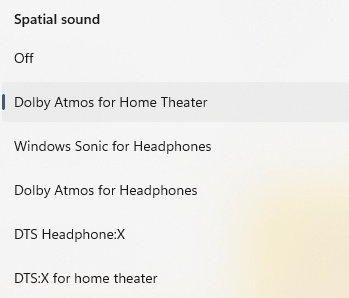
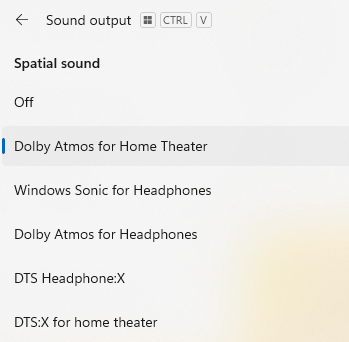
README: spatial sound through Win+Ctrl+V, uncropped screenshot
The screenshot's header shows the shortcut that opens the Sound output panel, so it stays, and step 1 uses that panel; Settings is the fallback for Windows 10.

diff --git a/README.md b/README.md
@@ -45,14 +45,16 @@ Same plane and a different height: object 2 is at about the listener's height, o
 
 1. 用 Dolby 或 DTS 的格式的话，先在 Microsoft Store 里安装对应的应用（Dolby Access 或 DTS Sound Unbound），
    打开它并按提示设置好你的设备。用 Windows Sonic 的话跳过这一步。
-2. 打开「设置」→「系统」→「声音」，点你正在用的输出设备（回音壁/功放通常显示为它的名字，或 “HDMI”
-   “Display Audio”；耳机就点耳机）。
-3. 找到「空间音效」（Spatial sound），把它从「关」（Off）改成下图中**除了「关」以外的任意一项**：
+2. 按 **Win + Ctrl + V**，打开「声音输出」面板。确认选中的是你正在用的设备（回音壁/功放通常显示为它的名字，
+   或 “HDMI”“Display Audio”；耳机就选耳机）。
+3. 在「空间音效」（Spatial sound）里，把「关」（Off）改成下图中**除了「关」以外的任意一项**：
 
-   ![Windows 11 声音设置中的「空间音效」选项：关、Dolby Atmos for Home Theater、Windows Sonic for Headphones、Dolby Atmos for Headphones、DTS Headphone:X、DTS:X for home theater](assets/screenshots/windows-spatial-sound.png)
+   ![Windows 11 的「声音输出」面板，标题旁是快捷键 Win + Ctrl + V；「空间音效」选项：关、Dolby Atmos for Home Theater、Windows Sonic for Headphones、Dolby Atmos for Headphones、DTS Headphone:X、DTS:X for home theater](assets/screenshots/windows-spatial-sound.png)
 
    你的列表可能比图里短，只会列出这台设备支持、并且已经装了对应应用的格式。
-4. 确认这个设备是默认输出设备（「声音」页面最上面选中的那个）。
+
+   Windows 10，或者快捷键不起作用时：打开「设置」→「系统」→「声音」，点你的设备，在「空间音效」里改，并确认
+   它是默认输出设备。
 
 **第 2 步：下载**
 
@@ -179,14 +181,16 @@ Pick one for your device:
 
 1. For a Dolby or DTS format, first install its app from the Microsoft Store (Dolby Access or DTS Sound
    Unbound), open it and follow its setup for your device. For Windows Sonic, skip this.
-2. Open Settings → System → Sound and click the output device you use (a soundbar/receiver shows by its name,
-   or as "HDMI" / "Display Audio"; for headphones, click the headphones).
-3. Find "Spatial sound" and change it from Off to **anything in this list except Off**:
+2. Press **Win + Ctrl + V** to open the "Sound output" panel. Make sure the device you use is selected (a
+   soundbar/receiver shows by its name, or as "HDMI" / "Display Audio"; for headphones, pick the headphones).
+3. Under "Spatial sound", change Off to **anything in this list except Off**:
 
-   ![The "Spatial sound" options in Windows 11 Sound settings: Off, Dolby Atmos for Home Theater, Windows Sonic for Headphones, Dolby Atmos for Headphones, DTS Headphone:X, DTS:X for home theater](assets/screenshots/windows-spatial-sound.png)
+   ![The Windows 11 "Sound output" panel, with its Win + Ctrl + V shortcut next to the title; the "Spatial sound" options: Off, Dolby Atmos for Home Theater, Windows Sonic for Headphones, Dolby Atmos for Headphones, DTS Headphone:X, DTS:X for home theater](assets/screenshots/windows-spatial-sound.png)
 
    Your list may be shorter: it only shows formats the device supports and whose app is installed.
-4. Make sure the device is the default output device (the one selected at the top of the Sound page).
+
+   On Windows 10, or if the shortcut does nothing: open Settings → System → Sound, click your device, change
+   "Spatial sound" there, and make sure it is the default output device.
 
 **Step 2: download**
 

diff --git a/CLAUDE.md b/CLAUDE.md
@@ -146,7 +146,8 @@ voice router, reverse-engineering workflow, testing/logs). Keep both in sync: th
   redrawn in CSS/SVG, no game art embedded) with the HUD's object cyan instead of amber; the radar and icon
   dome are drawn by the page's script from a real 7.1.4 layout. No Dolby logo or "全景声" wording, so it
   doesn't read as an official Dolby product. `assets/screenshots/` holds the README's Windows spatial sound
-  settings shot (cropped, 128-color PNG) and its in-game shots with the F8 HUD (Steam F12 captures: ReShade's own screenshot key saves before its UI layer is drawn, so it misses
+  settings shot (the Win+Ctrl+V "Sound output" panel, uncropped: its header shows the shortcut the README
+  tells players to press; 256-color PNG) and its in-game shots with the F8 HUD (Steam F12 captures: ReShade's own screenshot key saves before its UI layer is drawn, so it misses
   the HUD).
 - `.claude/settings.json` — Claude Code plugins for this repo: `clangd-lsp` (reads
   `build\compile_commands.json` from the workspace's `tools\compile-commands.ps1`), `microsoft-docs`
